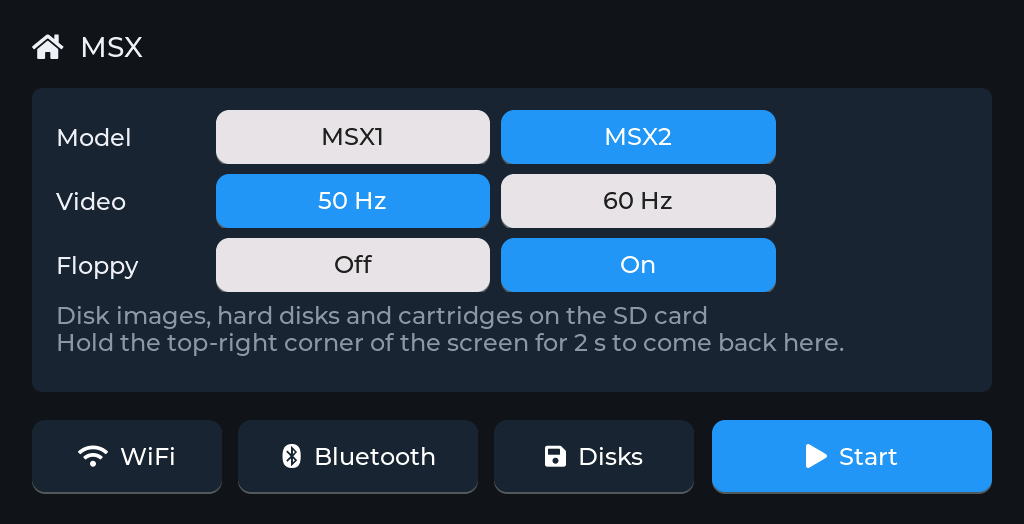
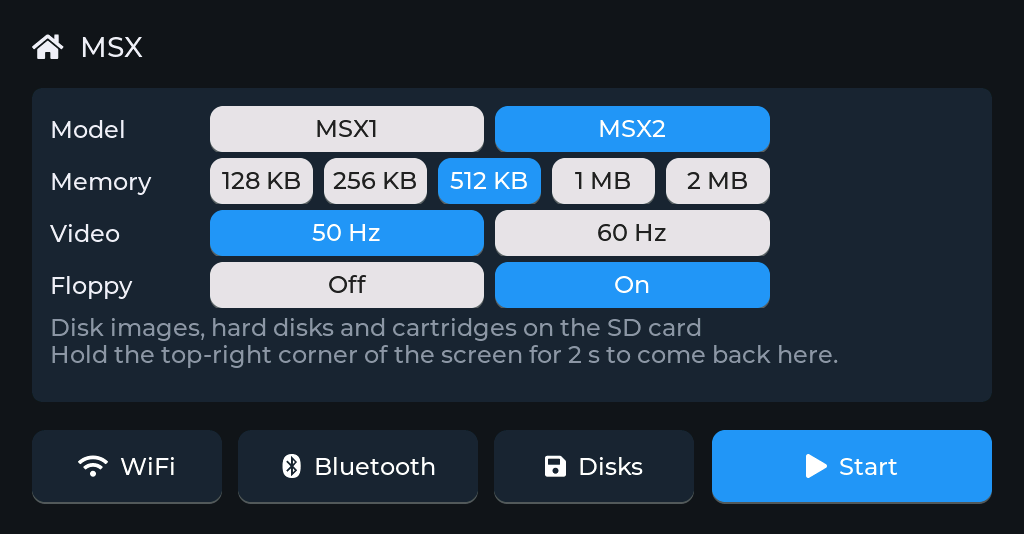
Memory on the setup screen: the MSX2's mapper from 128 KB to 2 MB (Tab5 4 MB)
- A Memory row: an MSX1 shows its 64 KB, an MSX2 the mapper's sizes, 128
  KB to 2 MB on the MaTouch (3.4 MB of its PSRAM free with 512 KB), to 4 MB
  on the Tab5; 512 KB as before by default. NVS msx ram_kb.
- The chosen size is reserved at power-on; a larger one later restarts the
  board, which reserves it first thing. Console: R <model> [hz] [KB].
- Checked: 2 MB on the MaTouch and 4 MB on the Tab5 restarted into an MSX2
  with that much; the mapper registers read 83 82 81 80 and 03 02 01 00.
- README: what Floppy Off is for (an MSX without the disk ROM: 28815 bytes
  free in BASIC instead of 23430); the setup screen's new picture.

diff --git a/main/main.c b/main/main.c
@@ -23,7 +23,24 @@
 
 static const char *TAG = "main";
 
-#define MSX2_RAM_KB     512        /* the memory mapper */
+/* The MSX2's memory mapper: up to 4 MB on the Tab5, 2 MB on the MaTouch
+ * (512 KB leaves 3.4 MB of its PSRAM free while running; a cartridge comes
+ * out of that too)
+ */
+#if CONFIG_IDF_TARGET_ESP32P4
+static const char *const ram_names[] = { "128 KB", "256 KB", "512 KB", "1 MB", "2 MB", "4 MB", "" };
+static const uint16_t ram_sizes[] = { 128, 256, 512, 1024, 2048, 4096 };
+#else
+static const char *const ram_names[] = { "128 KB", "256 KB", "512 KB", "1 MB", "2 MB", "" };
+static const uint16_t ram_sizes[] = { 128, 256, 512, 1024, 2048 };
+#endif
+#define RAM_SIZES   (sizeof(ram_sizes) / sizeof(ram_sizes[0]))
+static const char *const ram_names_msx1[] = { "64 KB", "" };
+
+/* PSRAM the rest needs at most: the LCD's framebuffer, WiFi, BLE, LVGL
+ * while the setup screen is open, the VRAM, ROMs and picture, a cartridge
+ */
+#define PSRAM_FOR_THE_REST  (3u * 1024 * 1024)
 
 static const char *const model_names[] = { "MSX1", "MSX2", "" };
 static const char *const video_names[] = { "50 Hz", "60 Hz", "" };
@@ -33,6 +50,7 @@ static msx_config_t s_cfg;
 static uint8_t *s_bios[2], *s_sub, *s_disk, *s_nextor;
 static bool s_started;
 static char s_rom_text[128];
+static uint32_t s_ram_kb;           /* reserved at power-on */
 
 static void *psram_alloc(uint32_t bytes)
 {
@@ -42,13 +60,21 @@ static void *psram_alloc(uint32_t bytes)
 /* ---- Memory ----
  *
  * At power-on, before the screen, WiFi and Bluetooth fragment PSRAM: the
- * MSX2's 512 KB of RAM (an MSX1 uses 64 KB of it), 128 KB of VRAM, the
- * ROMs, the picture. Disk images and cartridges come later.
+ * MSX2's mapper as chosen (as much of it as fits; an MSX1 uses 64 KB of it,
+ * so switching models needs no new reservation), 128 KB of VRAM, the ROMs,
+ * the picture. Disk images and cartridges come later. More than was
+ * reserved: start() restarts the board, which reserves it first thing.
  */
 static void reserve_memory(void)
 {
     settings_load();
-    s_cfg.ram = heap_caps_malloc(MSX2_RAM_KB * 1024, MALLOC_CAP_SPIRAM);
+    uint32_t kb = settings.ram_kb;
+    size_t free = heap_caps_get_free_size(MALLOC_CAP_SPIRAM);
+    while (kb > 128 && (size_t)kb * 1024 + PSRAM_FOR_THE_REST > free) {
+        kb /= 2;
+    }
+    s_cfg.ram = heap_caps_malloc(kb * 1024, MALLOC_CAP_SPIRAM);
+    s_ram_kb = s_cfg.ram ? kb : 0;
     s_cfg.vram = heap_caps_malloc(128 * 1024, MALLOC_CAP_SPIRAM);
     s_cfg.frame = heap_caps_calloc(MSX_SCREEN_WIDTH * MSX_SCREEN_HEIGHT, 2, MALLOC_CAP_SPIRAM);
     s_bios[0] = psram_alloc(rom_store_size(ROM_MSX1));
@@ -75,6 +101,11 @@ static bool start(void)
         return false;
     }
     bool msx2 = settings.model == MSX_MODEL_MSX2;
+    if (msx2 && settings.ram_kb > s_ram_kb) {
+        /* More than fitted at power-on: reserve it first thing after a restart */
+        emu_reboot_into_machine();
+        return false;
+    }
     if (msx2) {
         if (!rom_store_load(ROM_MSX2, s_bios[1]) || !rom_store_load(ROM_MSX2_SUB, s_sub)) {
             emu_set_message("No MSX2 ROMs: put msx2.rom and msx2ext.rom into roms/ and flash with idf.py "
@@ -89,7 +120,7 @@ static bool start(void)
     bool disk = settings.floppy && s_disk && rom_store_load(ROM_DISK, s_disk);
     bool nextor = s_nextor && rom_store_load(ROM_NEXTOR, s_nextor);
     s_cfg.model = settings.model;
-    s_cfg.ram_kb = msx2 ? MSX2_RAM_KB : 64;
+    s_cfg.ram_kb = msx2 ? settings.ram_kb : 64;
     s_cfg.hz50 = settings.video == 0;
     s_cfg.bios = msx2 ? s_bios[1] : s_bios[0];
     s_cfg.sub_rom = msx2 ? s_sub : NULL;
@@ -286,8 +317,42 @@ static void floppy_set(int i)
     }
 }
 
+/* Memory: the MSX1's 64 KB as its one button, the MSX2's mapper sizes */
+enum { CHOICE_MODEL, CHOICE_MEMORY };
+
+static const char *const *choice_names(int i)
+{
+    if (i == CHOICE_MEMORY) {
+        return settings.model == MSX_MODEL_MSX2 ? ram_names : ram_names_msx1;
+    }
+    return NULL;
+}
+
+static int ram_get(void)
+{
+    if (settings.model != MSX_MODEL_MSX2) {
+        return 0;
+    }
+    for (unsigned i = 0; i < RAM_SIZES; i++) {
+        if (ram_sizes[i] == settings.ram_kb) {
+            return i;
+        }
+    }
+    return 2;       /* (512 KB) */
+}
+
+static void ram_set(int i)
+{
+    if (settings.model == MSX_MODEL_MSX2 && i >= 0 && (unsigned)i < RAM_SIZES &&
+        ram_sizes[i] != settings.ram_kb) {
+        settings.ram_kb = ram_sizes[i];
+        settings_save();
+    }
+}
+
 static const emu_choice_t choices[] = {
     { "Model", model_names, model_get, model_set, false },
+    { "Memory", ram_names, ram_get, ram_set, false },
     { "Video", video_names, video_get, video_set, false },
     { "Floppy", floppy_names, floppy_get, floppy_set, false },
 };
@@ -468,8 +533,8 @@ static void status(emu_json_t *j, int section)
     msx_get_status(&s);
     if (section == EMU_STATUS_ROWS) {
         snprintf(text, sizeof(text), "%s, %u KB, %s, floppy drives %s", model_names[settings.model],
-                 settings.model == MSX_MODEL_MSX2 ? MSX2_RAM_KB : 64, video_names[settings.video],
-                 settings.floppy ? "on" : "off");
+                 (unsigned)(s_started ? s_cfg.ram_kb : settings.model == MSX_MODEL_MSX2 ? settings.ram_kb : 64),
+                 video_names[settings.video], settings.floppy ? "on" : "off");
         emu_json_row(j, "System", text);
         emu_json_row(j, "ROMs", s_rom_text);
         if (msx_cart_type()) {
@@ -516,7 +581,8 @@ static void console_info(char *buf, size_t len)
  *   K <n> <0|1>        key down (1) or up (0); 48 SHIFT, 49 CTRL, 60 STOP
  *   T <text>           type text (\n is RETURN)
  *   j <port> <bits>    joystick (1 up 2 down 4 left 8 right 16 A 32 B)
- *   R <model> [hz]     restart as 0 MSX1, 1 MSX2; 50 or 60 Hz
+ *   R <model> [hz] [KB]  restart as 0 MSX1, 1 MSX2; 50 or 60 Hz; the MSX2's
+ *                      mapper in KB (128 ... 2048, the Tab5 4096)
  */
 static bool console_command(const char *line)
 {
@@ -562,11 +628,16 @@ static bool console_command(const char *line)
         return true;
     }
     case 'R': {
-        int model = 0, hz = settings.video ? 60 : 50;
-        int n = sscanf(line + 1, "%d %d", &model, &hz);
-        if (n >= 1 && model >= 0 && model < MSX_MODEL_COUNT && (hz == 50 || hz == 60)) {
+        int model = 0, hz = settings.video ? 60 : 50, kb = settings.ram_kb;
+        int n = sscanf(line + 1, "%d %d %d", &model, &hz, &kb);
+        bool size_ok = false;
+        for (unsigned i = 0; i < RAM_SIZES; i++) {
+            size_ok |= ram_sizes[i] == kb;
+        }
+        if (n >= 1 && model >= 0 && model < MSX_MODEL_COUNT && (hz == 50 || hz == 60) && size_ok) {
             settings.model = model;
             settings.video = hz == 60;
+            settings.ram_kb = kb;
             settings_save();
             emu_restart();
         }
@@ -598,6 +669,7 @@ static const emu_machine_t machine = {
     .audio_pending = msx_audio_pending,
     .hid_key = hid_key,
     .choices = choices,
+    .choice_names = choice_names,
     .choice_count = sizeof(choices) / sizeof(choices[0]),
     .disks = &disks,
     .status = status,

diff --git a/main/settings.c b/main/settings.c
@@ -14,6 +14,7 @@ void settings_load(void)
     settings.video = 0;
     settings.floppy = 1;
     settings.joystick = 1;
+    settings.ram_kb = 512;
 
     nvs_handle_t h;
     if (nvs_open(NAMESPACE, NVS_READONLY, &h) != ESP_OK) {
@@ -32,6 +33,10 @@ void settings_load(void)
     if (nvs_get_u8(h, "joystick", &u8) == ESP_OK && (u8 == 1 || u8 == 2)) {
         settings.joystick = u8;
     }
+    uint16_t u16;
+    if (nvs_get_u16(h, "ram_kb", &u16) == ESP_OK && u16 >= 128 && u16 <= 4096 && (u16 & (u16 - 1)) == 0) {
+        settings.ram_kb = u16;
+    }
     nvs_close(h);
 }
 
@@ -46,6 +51,7 @@ void settings_save(void)
     nvs_set_u8(h, "video", settings.video);
     nvs_set_u8(h, "floppy", settings.floppy);
     nvs_set_u8(h, "joystick", settings.joystick);
+    nvs_set_u16(h, "ram_kb", settings.ram_kb);
     nvs_commit(h);
     nvs_close(h);
 }

diff --git a/main/settings.h b/main/settings.h
@@ -10,6 +10,7 @@ typedef struct {
     uint8_t video;          /* 0: 50 Hz, 1: 60 Hz */
     uint8_t floppy;         /* 1: the disk ROM (floppy drives) */
     uint8_t joystick;       /* port the keypad joystick is in: 1 or 2 */
+    uint16_t ram_kb;        /* MSX2: the memory mapper, 128 ... 4096 KB (a power of two) */
 } settings_t;
 
 extern settings_t settings;

diff --git a/CLAUDE.md b/CLAUDE.md
@@ -1,7 +1,7 @@
 # esp32msx: MSX1 and MSX2 on the Makerfabs MaTouch ESP32-S3 7" and the M5Stack Tab5
 
-An MSX1 (64 KB, TMS9918A/9929A) or MSX2 (512 KB memory mapper, V9938 with
-128 KB VRAM, RP5C01 clock), 50 or 60 Hz: the Z80 on esp32emu's core with the
+An MSX1 (64 KB, TMS9918A/9929A) or MSX2 (a memory mapper of 128 KB to 2 MB,
+the Tab5 to 4 MB; V9938 with 128 KB VRAM, RP5C01 clock), 50 or 60 Hz: the Z80 on esp32emu's core with the
 MSX's M1 wait state, the slots and subslots, the PPI and keyboard, the
 AY-3-8910 with the key click, two floppy drives behind a WD2793 (Philips
 style disk ROM), a Sunrise IDE hard disk with Nextor, and ROM cartridges with
@@ -54,15 +54,15 @@ Console commands: the shared ones (`s` `L` `r` `F` `t` `i` `p`) and the
 MSX's (`main/main.c`): `k <n>` tap a key (row x 8 + column: 63 RETURN, 64
 SPACE), `K <n> 0|1` (48 SHIFT, 49 CTRL, 60 STOP), `T <text>` type (`\n`
 RETURN; a key down 2 frames, up 2), `j <port> <bits>` joystick (1 up 2 down
-4 left 8 right 16 A 32 B), `R <model> [hz]` restart as 0 MSX1, 1 MSX2, at 50
-or 60 Hz. Touches: Start `t 850 532` (MaTouch), `t 1065 637` (Tab5).
+4 left 8 right 16 A 32 B), `R <model> [hz] [KB]` restart as 0 MSX1, 1 MSX2,
+at 50 or 60 Hz, with the MSX2's mapper in KB (128 to 2048, the Tab5 4096). Touches: Start `t 850 532` (MaTouch), `t 1065 637` (Tab5).
 
 ## Layout
 
 | Path | What |
 |---|---|
-| `main/main.c` | The MSX as an `emu_machine_t`: memory, ROMs, choices (model, video, floppy), key map, joystick, the drives (A:, B:, hard disk, cartridge), status, console |
-| `main/settings.c`, `rom_store.c` | NVS settings (`msx`: model, video, floppy, joystick), the ROM partition |
+| `main/main.c` | The MSX as an `emu_machine_t`: memory, ROMs, choices (model, memory, video, floppy), key map, joystick, the drives (A:, B:, hard disk, cartridge), status, console |
+| `main/settings.c`, `rom_store.c` | NVS settings (`msx`: model, video, floppy, joystick, ram_kb), the ROM partition |
 | `components/msx/msx.c` | Slots and memory, the PPI and keyboard, the I/O ports, the frame loop, typing |
 | `components/msx/vdp.c` | TMS9918A / V9938: all modes, sprites, the V9938's commands |
 | `components/msx/psg.c` | AY-3-8910, SCC, key click: events replayed on the speaker's task |
@@ -83,6 +83,17 @@ or 60 Hz. Touches: Start `t 850 532` (MaTouch), `t 1065 637` (Tab5).
   or a cartridge bank. Slot 0 BIOS, 1 the cartridge, 2 the Sunrise IDE
   (Nextor; only with a hard disk inserted), 3-0 RAM / mapper, 3-1 SUB-ROM,
   3-2 disk ROM.
+- **The mapper's size** (setup screen "Memory", MSX2 only; an MSX1's row is
+  its one 64 KB button: the runtime's `choice_names()`): `reserve_memory()`
+  reserves the chosen size at power-on (as much as fits next to 3 MB for
+  the rest), an MSX1 uses 64 KB of it. A larger size later: `start()`
+  restarts the board, which reserves it first thing. The segment registers
+  read back with the bits above the size set: `PRINT HEX$(INP(&HFC))` in
+  BASIC gives 83 with 2 MB, E3 with 512 KB. The MaTouch stops at 2 MB (3.4
+  MB of its PSRAM free while running with 512 KB; cartridges come out of
+  that).
+- **Floppy Off** leaves the disk ROM out (an MSX without drives): MSX1 BASIC
+  has 28815 bytes free instead of 23430, as some cassette-era programs need.
 - **Timing**: a frame is 262 (60 Hz) or 313 (50 Hz) lines of 228 T-states at
   3.58 MHz. The Z80 gets a wait state on every M1 cycle as the MSX engine
   adds one: counted from the refresh register's advance.
@@ -114,7 +125,8 @@ or 60 Hz. Touches: Start `t 850 532` (MaTouch), `t 1065 637` (Tab5).
 
 ### Persistent state
 
-- NVS `msx`: `model`, `video`, `floppy`, `joystick`; `msxdisks`: the
+- NVS `msx`: `model`, `video`, `floppy`, `joystick`, `ram_kb` (the MSX2's
+  mapper, default 512); `msxdisks`: the
   drives' images. SD card: images in `msx/`.
 
 ## Performance (measured 2026-10-18)
@@ -159,7 +171,10 @@ or 60 Hz. Touches: Start `t 850 532` (MaTouch), `t 1065 637` (Tab5).
 - Checked: MSX1 and MSX2 BASIC, the screen modes and sprites, the V9938's
   commands, floppies (LOAD/SAVE, FILES, new blank disks), Nextor from a
   new hard disk (FAT16, SAVE/FILES), cartridges of each mapper (test ROMs),
-  the SCC and AY sound (recorded on the host), on both boards.
+  the SCC and AY sound (recorded on the host), on both boards. The Memory
+  row (2026-10-18): MSX1 shows its 64 KB, MSX2 the sizes; 2 MB on the
+  MaTouch and 4 MB on the Tab5 restarted the board into an MSX2 with that
+  much, the mapper registers read 83 82 81 80 and 03 02 01 00.
 - **Not checked by hand**: games, a Bluetooth keyboard and joystick on the
   MSX, sound on the speakers.
 

diff --git a/README.md b/README.md
@@ -19,7 +19,7 @@
   <img alt="Nextor BASIC 2.10: a program saved to the hard disk (A:) and a floppy (B:), both listed, 32591 KB and 712 KB free, then run" src="docs/images/nextor.png" width="49%">
   <br>
   <img alt="SCREEN 8: the V9938's 256 colours in a 16 by 16 grid" src="docs/images/screen8.png" width="49%">
-  <img alt="The setup screen: model MSX1 or MSX2, video 50 or 60 Hz, floppy drives off or on; WiFi, Bluetooth, Disks and Start buttons" src="docs/images/setup.png" width="49%">
+  <img alt="The setup screen: model MSX1 or MSX2, the MSX2's memory 128 KB to 2 MB, video 50 or 60 Hz, floppy drives off or on; WiFi, Bluetooth, Disks and Start buttons" src="docs/images/setup.png" width="49%">
   <br>
   <sub>The MSX2 starting; Nextor BASIC with a hard disk and a floppy; SCREEN 8's 256 colours;
   the setup screen. As on the MaTouch's panel, border included.</sub>
@@ -44,9 +44,9 @@ core this one shares with the Amstrad and the Spectrum.
 ## Features
 
 **The machines**
-- **MSX1** (64 KB, TMS9918A, or TMS9929A at 50 Hz) and **MSX2** (512 KB
-  memory mapper, V9938 with 128 KB of VRAM, RP5C01 clock), chosen on the
-  setup screen with **50 or 60 Hz** video
+- **MSX1** (64 KB, TMS9918A, or TMS9929A at 50 Hz) and **MSX2** (a memory
+  mapper of 128 KB to 2 MB, on the Tab5 to 4 MB; V9938 with 128 KB of VRAM,
+  RP5C01 clock), chosen on the setup screen with **50 or 60 Hz** video
 - **Z80** at 3.58 MHz on the shared core, with the wait state the MSX engine
   adds to every M1 cycle
 - **Slots and subslots** as an MSX lays them out: BIOS and BASIC, the
@@ -63,7 +63,11 @@ core this one shares with the Amstrad and the Spectrum.
 **Drives**
 - **Two floppy drives** behind a WD2793, as Philips built the disk interface:
   `.dsk` images (720 KB and 360 KB), read and written in place, new
-  formatted disks on request
+  formatted disks on request. **Floppy Off** leaves the disk interface out,
+  as on an MSX without drives: BASIC starts at once and, without a hard
+  disk, has 28815 bytes free instead of 23430 (the disk ROM keeps its work
+  area at the top of RAM), which some cassette-era programs need. A Nextor
+  hard disk works either way
 - **A hard disk** on a Sunrise IDE interface with **Nextor**: a raw image of
   any size, read and written in place; new ones come with a FAT16 partition
   (32 or 128 MB). With a hard disk in, Nextor starts first: the hard disk is
@@ -74,7 +78,7 @@ core this one shares with the Amstrad and the Spectrum.
 **Around it**
 - **Setup screen** before the MSX starts, and any time while it runs (hold
   the top-right corner for 2 seconds): WiFi, Bluetooth pairing, the model,
-  video, the floppy drives, the drives and cartridge, reset
+  memory, video, the floppy drives, the drives and cartridge, reset
 - **Bluetooth keyboard** (BLE HID)
 - **Web page** at `http://msx.local`: drop disk images, hard disks,
   cartridges or `.ZIP` files onto it, put them into drives, eject, make
@@ -133,8 +137,8 @@ ROMs, you can also copy them into a `roms` folder on the SD card.
 1. The board starts on the **setup screen**. Tap **WiFi** to join your
    network: the web page becomes reachable.
 2. Tap **Bluetooth** to pair a keyboard.
-3. Choose the **model**, the **video** frequency and the **floppy** drives,
-   then tap **Start**: MSX BASIC.
+3. Choose the **model**, the MSX2's **memory**, the **video** frequency and
+   the **floppy** drives, then tap **Start**: MSX BASIC.
 4. Open `http://msx.local`, drop a disk image or a cartridge onto the page,
    then **Insert into…**: a floppy is there at once, a cartridge or a hard
    disk starts the MSX again with it.
@@ -144,7 +148,7 @@ ROMs, you can also copy them into a `roms` folder on the SD card.
 | To | Do |
 |---|---|
 | Get back to the setup screen | Hold the top-right corner of the screen for 2 s |
-| Change the model, video or floppy drives | On the setup screen; **Restart** applies it |
+| Change the model, memory, video or floppy drives | On the setup screen; **Restart** applies it |
 | Play a cartridge | Insert it into **Cartridge** (setup screen's Disks page, or the web page): the MSX starts with it |
 | Use a hard disk | **New** → 32 or 128 MB on the drives page or the web page, insert it into **Hard disk**: Nextor starts with it as A: (in BASIC; Nextor starts its DOS from a disk that has `NEXTOR.SYS` and `COMMAND2.COM` on it) |
 | Load or save a program | `SAVE"A:NAME.BAS"`, `LOAD"A:NAME.BAS"`, `FILES` |
